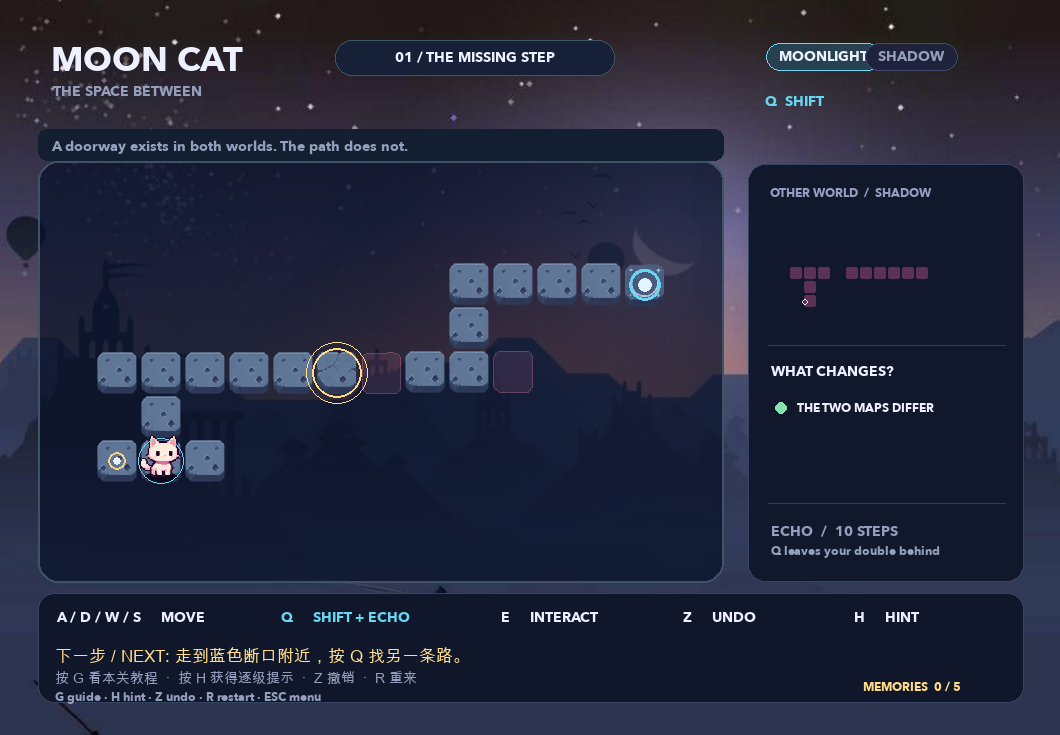
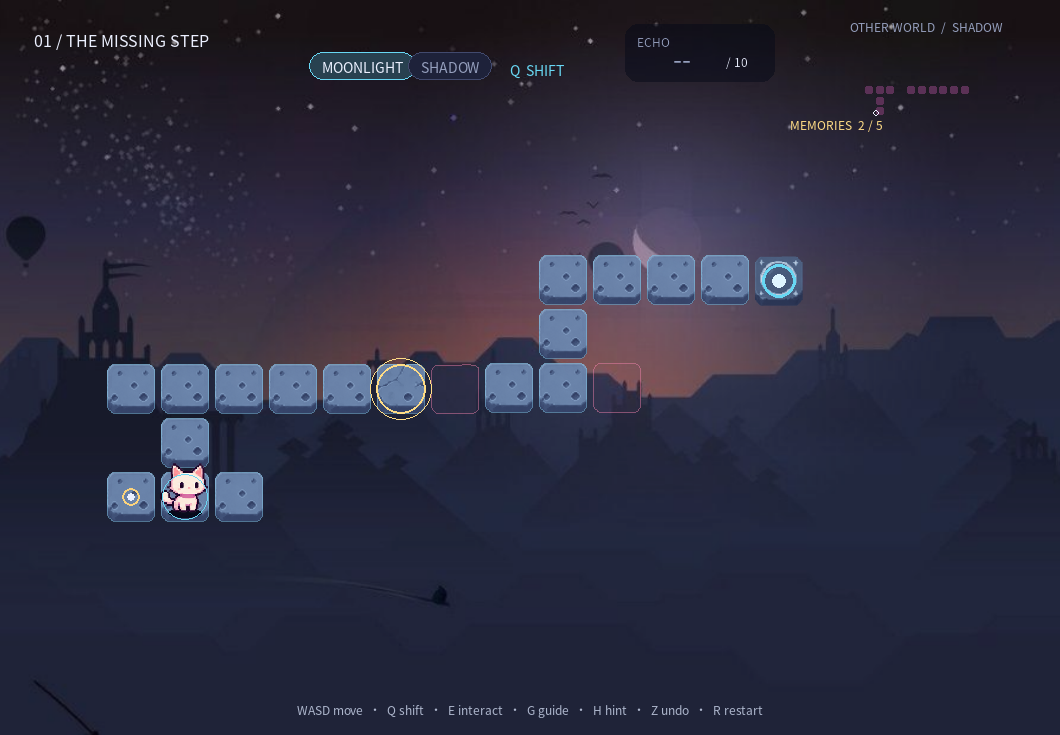
Finalize English submission materials

diff --git a/PROCESS.md b/PROCESS.md
@@ -34,7 +34,7 @@ I also added clear responses for movement, failed movement, shifting, pushing, m
 
 I asked one person to play the game. My playtester said:
 
-> “The player was unsure what the stone was for and did not understand its role in the puzzle.”
+> “The player was unsure what the stone was for.”
 
 The stone was visible, but its connection to the plate and the route in the other world was unclear. This showed me that seeing an object is not the same as understanding its purpose.
 

diff --git a/README.md b/README.md
@@ -77,7 +77,7 @@ uv run python mooncat_meteorite_tiles/main.py
 
 ### Echo remaining-move HUD
 
-![Echo HUD](mooncat_meteorite_tiles/screenshots/fullscreen_ui_echo_hud.png)
+![Echo HUD](mooncat_meteorite_tiles/screenshots/native_alpha_fix/level1_shadow.png)
 
 ## Evidence and Documentation
 
